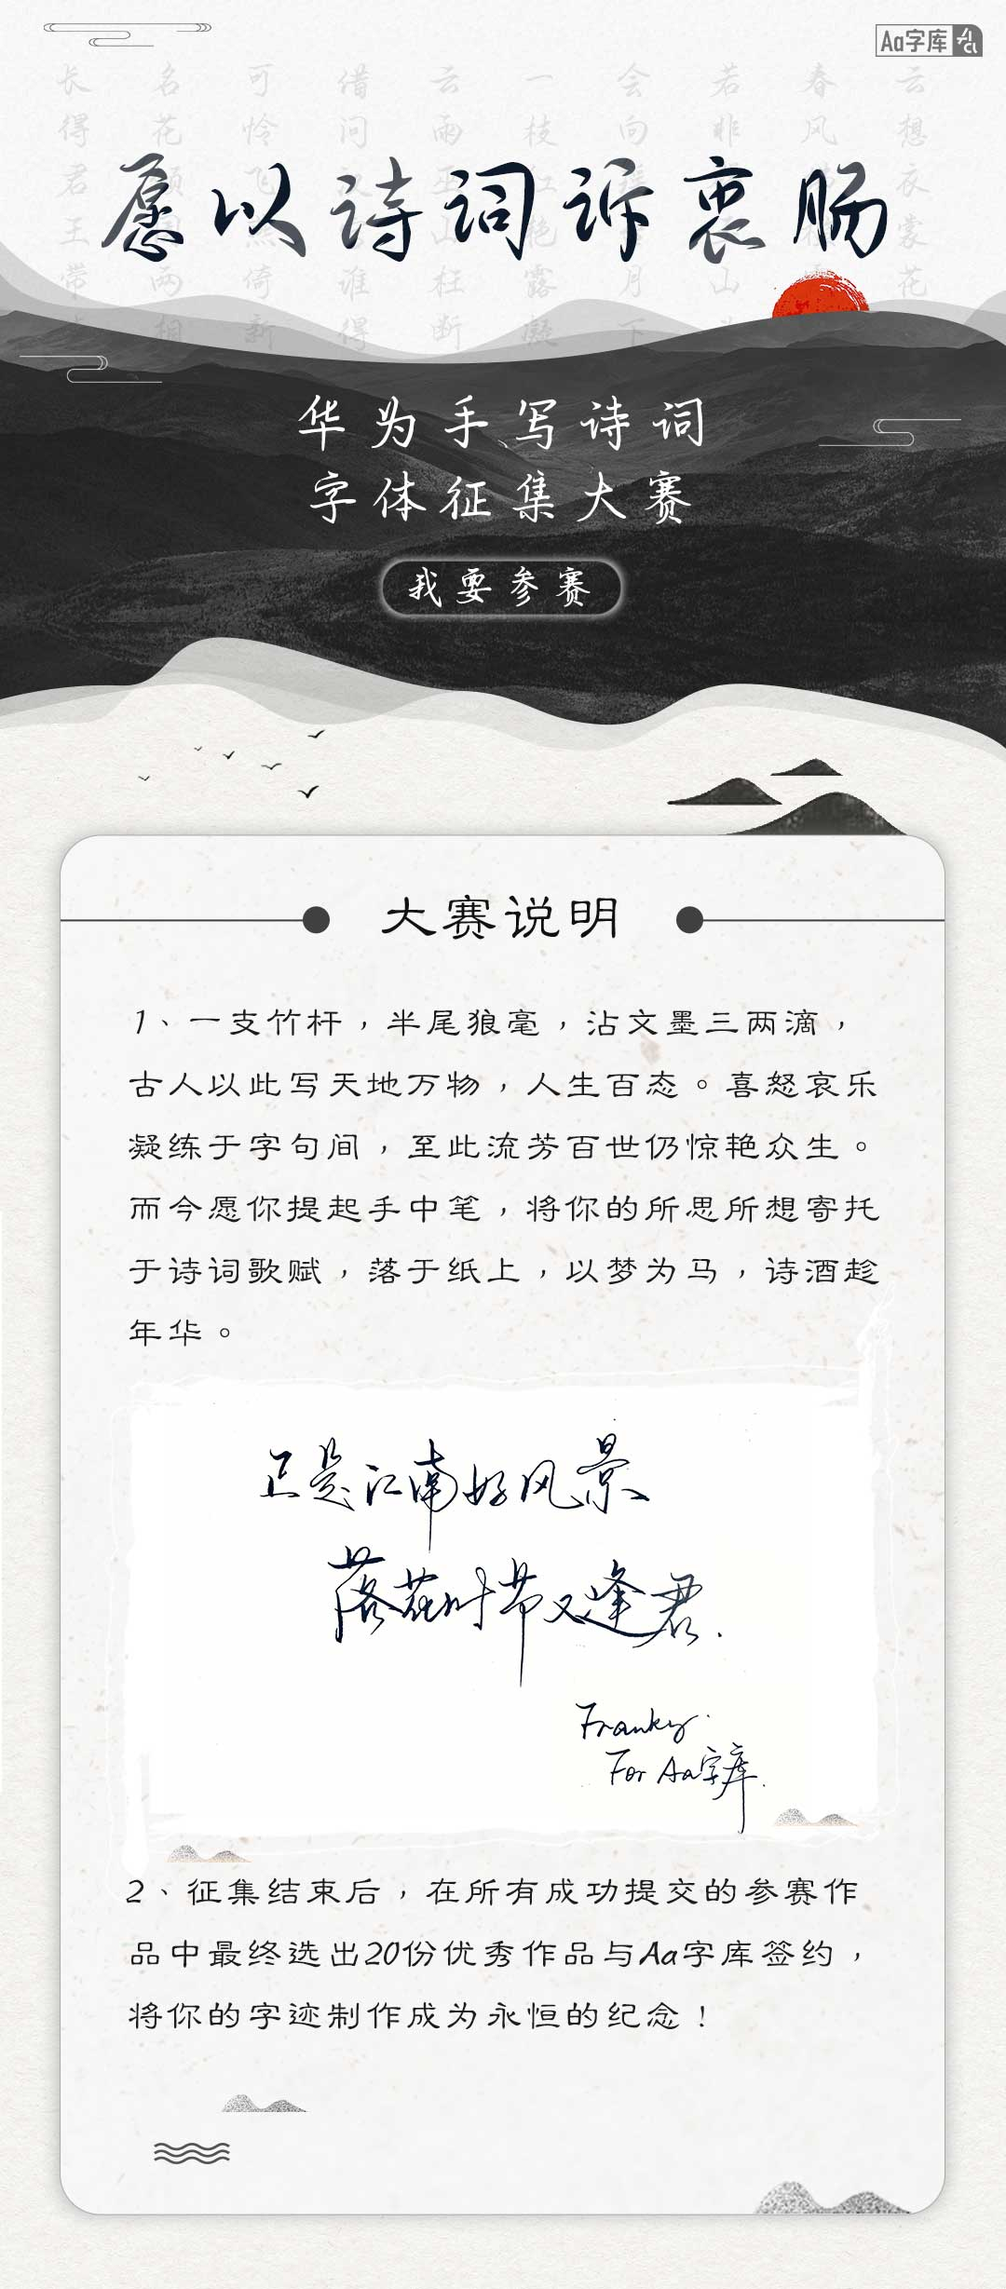
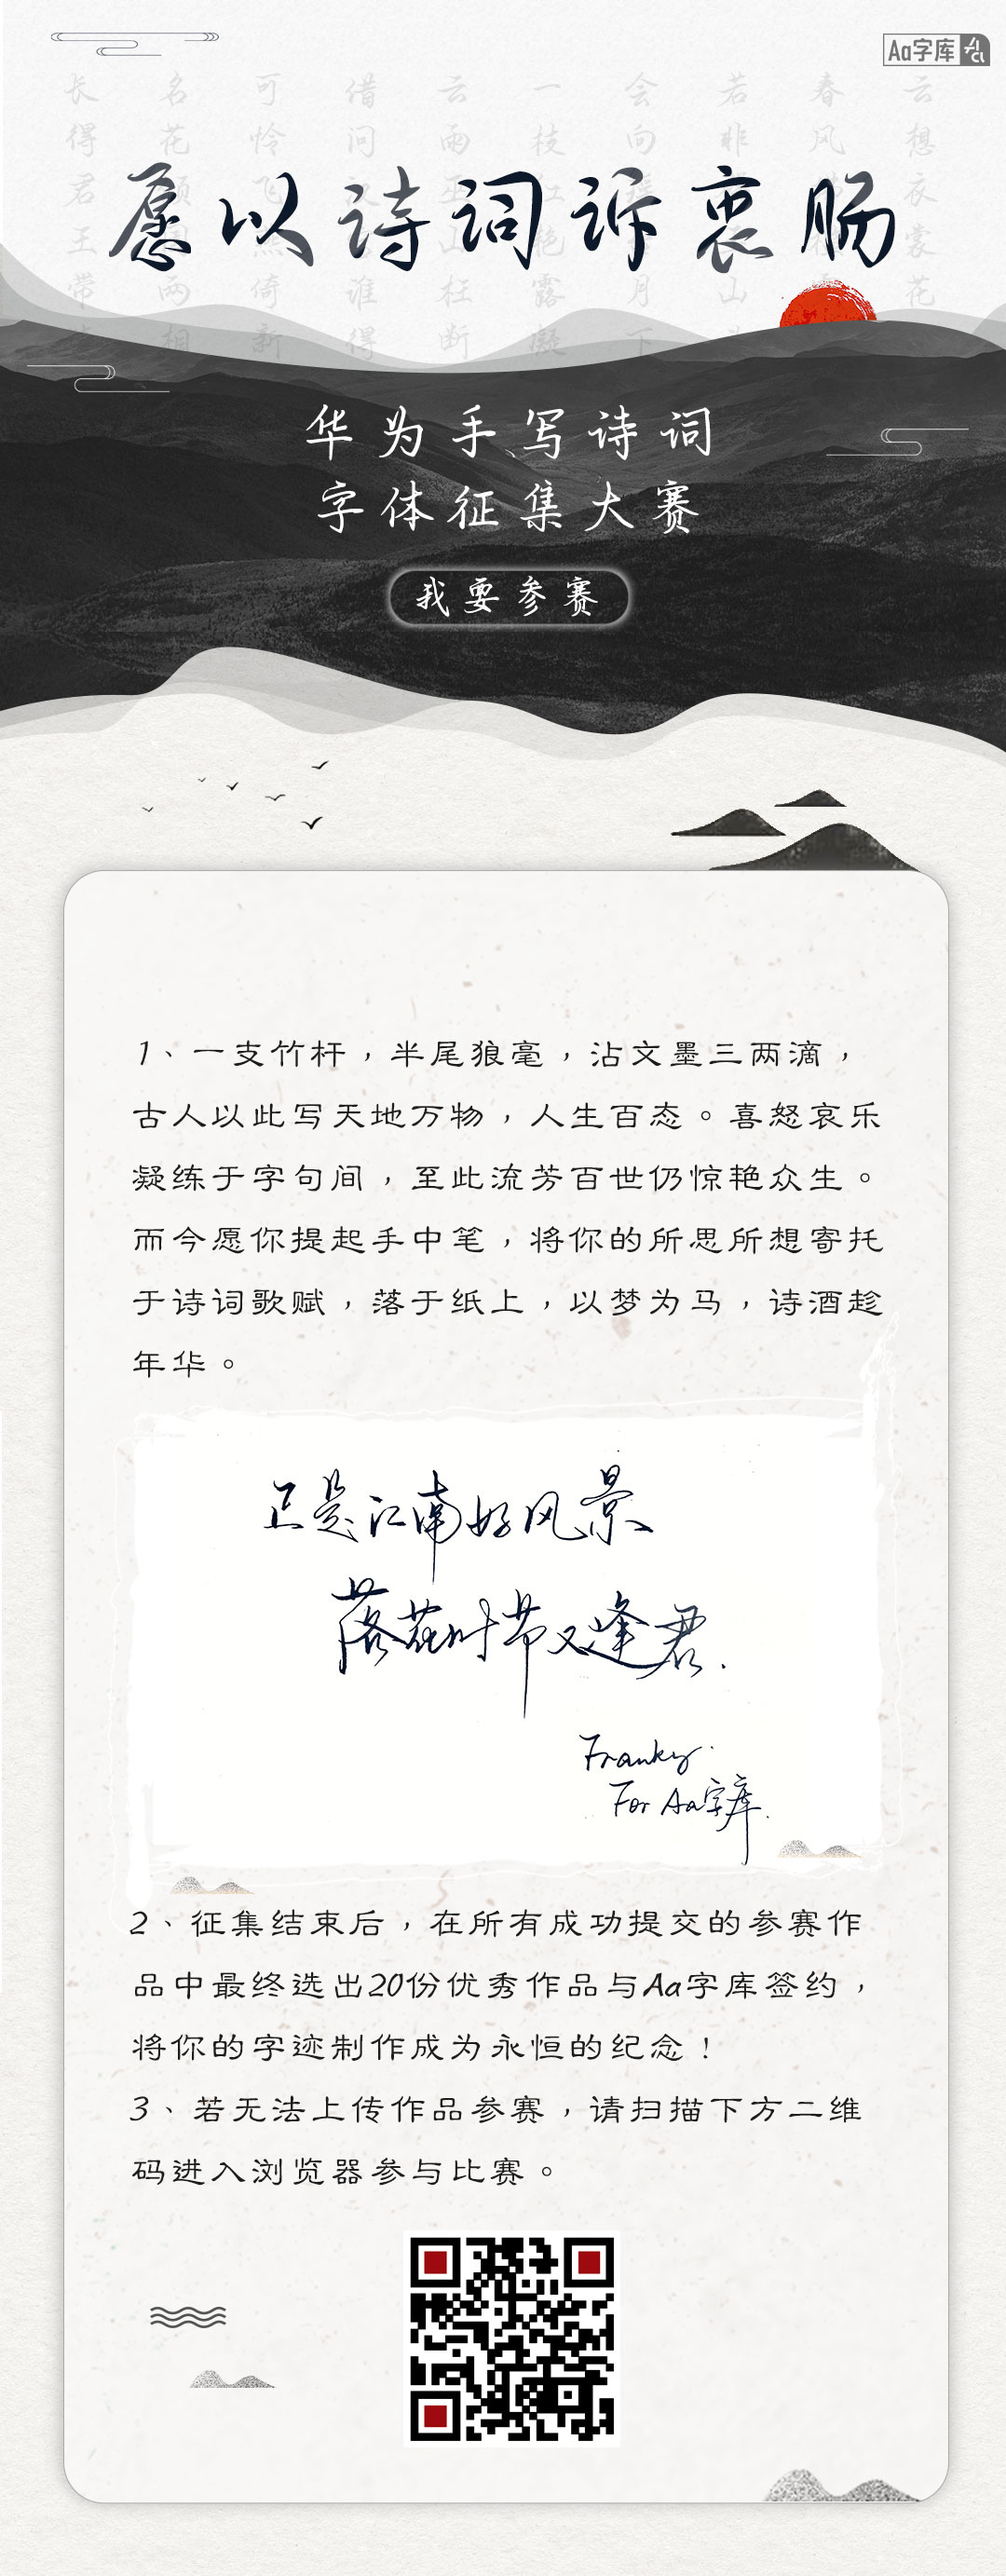
更新图片

diff --git a/public/hw/css/app.css b/public/hw/css/app.css
@@ -289,17 +289,17 @@ img {
 .p1-top {
     background: url('http://fonts.b0.upaiyun.com/font-activity/images/p1-1_01.jpg') no-repeat;
     width: 1080px;
-    height: 2458px;
+    height: 2765px;
 }
 .p1-button {
     background: url('http://fonts.b0.upaiyun.com/font-activity/images/p1-1_submit.jpg') no-repeat;
     width: 1080px;
-    height: 223px;
+    height: 236px;
 }
 .p1-bottom {
     background: url('http://fonts.b0.upaiyun.com/font-activity/images/p1-1_03.jpg') no-repeat;
     width: 1080px;
-    height: 1969px;
+    height: 2078px;
 }
 
 .p1-1-1 {
